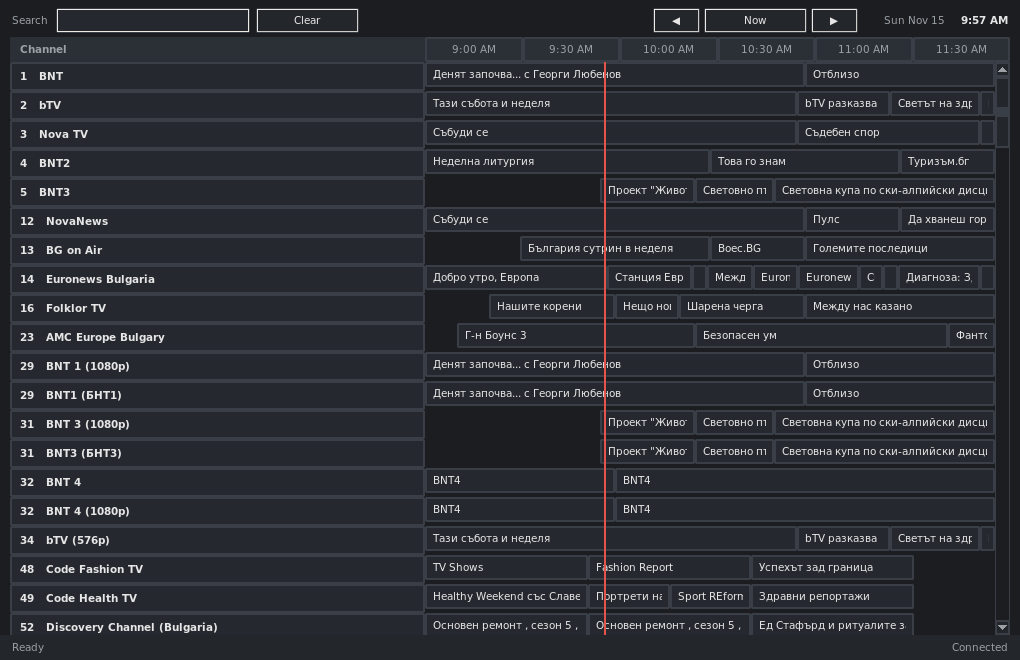
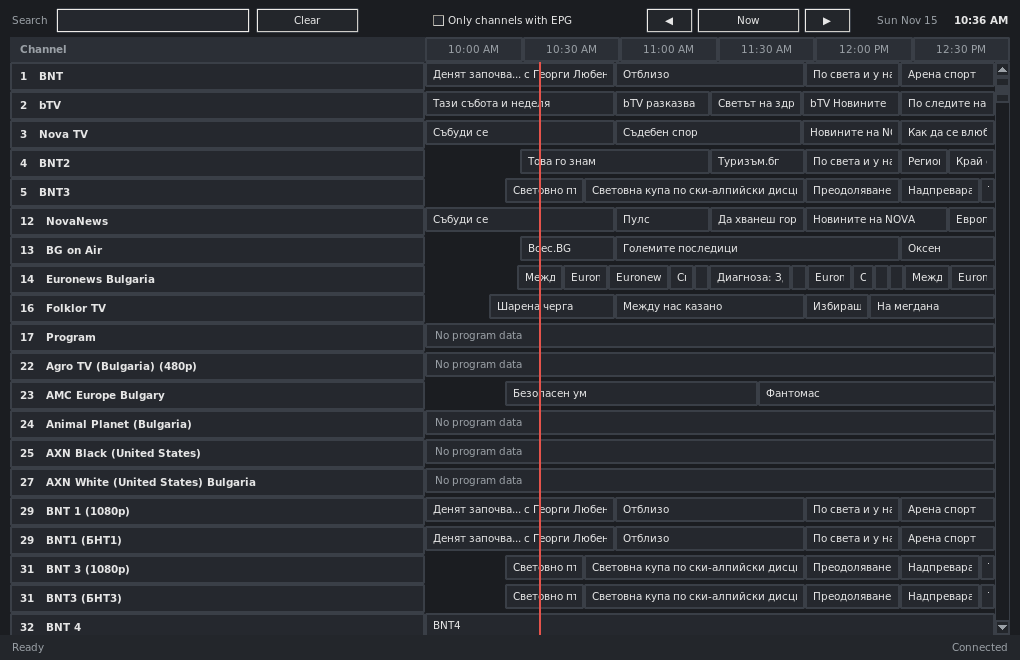
Show all channels and add an EPG-only filter
The guide previously listed only channels that had at least one EPG
event in the visible window, so channels without program data could
not be seen or played from the guide.

Fetch the full channel list and show every enabled channel by default.
Rows with no programs in the window display "No program data" and
remain playable. Add an "Only channels with EPG" checkbox in the
toolbar, unchecked by default, that hides channels with no programs in
the visible window and combines with the search filter.

Also return keyboard focus to the guide when a row is clicked, so the
arrow keys and Enter work immediately after picking a channel.

diff --git a/tvhc.py b/tvhc.py
@@ -135,11 +135,31 @@ def get_epg_data(fstart=None, fend=None):
             continue
         if fstart and e['stop'] < fstart:
             continue
-        if fend and e.get('start', 0) > fend:
+        if fend and e['start'] > fend:
             break
         channels[key].append(e)
 
     return dict(sorted(channels.items(), key=channel_sort_key))
+
+
+# fetch the full channel list, including channels with no EPG data
+def get_channels():
+    response = requests_get(f'{TVHE_Server}/api/channel/grid?start=0&limit=99999')
+    try:
+        data = response.json()
+    except ValueError as err:
+        raise TVHCError(f'invalid channel response: {err}') from err
+
+    channels = {}
+    for channel in data.get('entries', []):
+        try:
+            key = str(channel['number']), channel['name']
+        except KeyError:
+            continue
+        if not channel.get('enabled', True):
+            continue
+        channels[key] = channel.get('uuid')
+    return channels
 
 
 # ---------------------------------------------------------------- theme ---
@@ -161,7 +181,7 @@ ERROR = "#ff7b72"
 root = tk.Tk()
 root.title("TVHC — TVHeadend Client")
 root.geometry("1020x660")
-root.minsize(800, 420)
+root.minsize(900, 420)
 root.configure(background=BG)
 
 style = ttk.Style(root)
@@ -187,6 +207,13 @@ style.map("TButton",
 style.configure("TEntry", fieldbackground=CELL, foreground=FG,
                 insertcolor=FG, bordercolor=BORDER, padding=4)
 style.map("TEntry", bordercolor=[("focus", ACCENT)])
+style.configure("TCheckbutton", background=BG, foreground=FG,
+                indicatorbackground=CELL, indicatorforeground=ACCENT,
+                focuscolor=ACCENT)
+style.map("TCheckbutton",
+          background=[("active", BG)],
+          indicatorbackground=[("selected", ACCENT), ("active", CELL_HOVER)],
+          indicatorforeground=[("selected", ON_ACCENT)])
 style.configure("Vertical.TScrollbar", background=PANEL, troughcolor=BG,
                 bordercolor=BORDER, arrowcolor=MUTED,
                 darkcolor=BORDER, lightcolor=BORDER)
@@ -209,6 +236,8 @@ style.configure("Prog.TLabel", background=CELL, foreground=FG,
                 padding=(6, 4), bordercolor=BORDER)
 style.configure("ProgHover.TLabel", background=CELL_HOVER, foreground=FG,
                 padding=(6, 4), bordercolor=ACCENT)
+style.configure("Empty.TLabel", background=CELL, foreground=MUTED,
+                padding=(8, 4), bordercolor=BORDER)
 style.configure("Status.TLabel", background=PANEL, foreground=MUTED,
                 padding=(10, 4))
 style.configure("Panel.TFrame", background=PANEL)
@@ -229,21 +258,32 @@ status_right.pack(side="right")
 
 toolbar = ttk.Frame(root, padding=(10, 8, 10, 4))
 toolbar.pack(side="top", fill="x")
+toolbar.columnconfigure(0, weight=0)
+toolbar.columnconfigure(1, weight=1)
+toolbar.columnconfigure(2, weight=0)
 
 search_box = ttk.Frame(toolbar)
-search_box.pack(side="left")
+search_box.grid(row=0, column=0, sticky="w")
 ttk.Label(search_box, text="Search", style="Muted.TLabel").pack(side="left", padx=(0, 6))
 search_var = tk.StringVar()
 search_entry = ttk.Entry(search_box, textvariable=search_var, width=26)
 search_entry.pack(side="left")
 ttk.Button(search_box, text="Clear", command=lambda: search_var.set()).pack(side="left", padx=(6, 0))
 
-clock_label = ttk.Label(toolbar, text="", style="Bold.TLabel")
+epg_only_var = tk.BooleanVar(value=False)
+epg_only_check = ttk.Checkbutton(toolbar, text="Only channels with EPG",
+                                 variable=epg_only_var)
+epg_only_check.grid(row=0, column=1)
+
+right_box = ttk.Frame(toolbar)
+right_box.grid(row=0, column=2, sticky="e")
+
+clock_label = ttk.Label(right_box, text="", style="Bold.TLabel")
 clock_label.pack(side="right", padx=(12, 0))
-date_label = ttk.Label(toolbar, text="", style="Muted.TLabel")
+date_label = ttk.Label(right_box, text="", style="Muted.TLabel")
 date_label.pack(side="right", padx=(12, 0))
 
-nav_box = ttk.Frame(toolbar)
+nav_box = ttk.Frame(right_box)
 nav_box.pack(side="right", padx=(0, 12))
 prev_button = ttk.Button(nav_box, text="◀", width=3)
 prev_button.pack(side="left")
@@ -307,6 +347,7 @@ playing_key = None     # channel key currently playing
 player_process = None  # subprocess of the running mpv
 popup = None           # program details Toplevel
 server_ok = False      # last EPG request succeeded
+all_channels = None    # full channel list, fetched once
 
 
 # ------------------------------------------------------------- helpers ---
@@ -350,17 +391,20 @@ def rebuild_rows(keys):
 
         progs = ttk.Frame(scroll_frame)
         gridrows[key] = SimpleNamespace(chan=chan, progs=progs, number=number,
-                                        name=name, uuid=None)
+                                        name=name, uuid=None, has_epg=False)
 
 
 def apply_filter(reset_scroll=False):
     global selected_key
     query = search_var.get().strip().lower()
+    epg_only = epg_only_var.get()
     visible_keys.clear()
     index = 0
 
     for key, row in gridrows.items():
-        matches = not query or query in f"{row.number} {row.name}".lower()
+        matches = (not query or query in f"{row.number} {row.name}".lower())
+        if epg_only and not row.has_epg:
+            matches = False
         if matches:
             row.chan.grid(row=index, column=0, sticky="nsew")
             row.progs.grid(row=index, column=1, sticky="nsew")
@@ -420,7 +464,7 @@ def update_nowline():
 
 
 def update_epg_grid():
-    global server_ok
+    global server_ok, all_channels
     try:
         epg = get_epg_data(view_start, view_end)
     except TVHCError as err:
@@ -430,16 +474,31 @@ def update_epg_grid():
     server_ok = True
     show_connection("Connected")
 
-    keys = list(epg)
+    # the channel list is optional: if the request fails, fall back to
+    # showing only the channels that appear in the EPG
+    if all_channels is None:
+        try:
+            all_channels = get_channels()
+        except TVHCError:
+            all_channels = None
+
+    channel_keys = set(epg)
+    if all_channels:
+        channel_keys.update(all_channels)
+    keys = sorted(channel_keys, key=lambda key: channel_sort_key((key, None)))
+
     if set(keys) != set(gridrows):
         rebuild_rows(keys)
 
-    for key, events in epg.items():
+    for key in keys:
         row = gridrows.get(key)
         if row is None:
             continue
+        events = epg.get(key, [])
+        row.has_epg = bool(events)
+        row.uuid = all_channels.get(key) if all_channels else None
         if events and events[0].get('channelUuid'):
-            row.uuid = events[0]['channelUuid']
+            row.uuid = events[0]['channelUuid'] or row.uuid
 
         for child in row.progs.winfo_children():
             child.destroy()
@@ -447,6 +506,16 @@ def update_epg_grid():
         col = 0
         group = f'progs-{key}'
         pos = view_start
+
+        if not events:
+            empty = ttk.Label(row.progs, text="No program data",
+                              borderwidth=1, relief="solid",
+                              style="Empty.TLabel", cursor="hand2")
+            empty.metadata = SimpleNamespace(key=key)
+            empty.bind("<Button-1>", play_stop)
+            empty.grid(row=0, column=0, sticky="nsew")
+            row.progs.columnconfigure(0, weight=1, uniform=group)
+            continue
 
         for event in events:
             title = clean_text(event.get('title'), '(no title)')
@@ -621,6 +690,9 @@ def play_stop(event):
     global selected_key
     selected_key = metadata.key
     refresh_row_styles()
+    # take keyboard focus back from the search box so the arrow keys and
+    # Enter act on the guide after a click
+    root.focus_set()
     title = getattr(metadata, 'title', None)
     # clicking a program of the channel that is already playing should not
     # stop playback; only the channel label acts as a play/stop toggle.
@@ -806,6 +878,7 @@ def on_close():
 
 search_var.trace_add("write", lambda *args: apply_filter(reset_scroll=True))
 search_entry.bind("<Escape>", on_key_escape)
+epg_only_check.configure(command=lambda: apply_filter(reset_scroll=True))
 
 prev_button.configure(command=lambda: page_view(-SLOT_SECONDS))
 next_button.configure(command=lambda: page_view(SLOT_SECONDS))

diff --git a/Readme.md b/Readme.md
@@ -92,6 +92,7 @@ python3 tvhc.py http://192.168.1.45:9981/
 | Move the guide back / forward | <kbd>◀</kbd> / <kbd>▶</kbd> buttons or <kbd>←</kbd> / <kbd>→</kbd> (30 minutes at a time) |
 | Return to the current time | **Now** button |
 | Filter channels | Type a channel number or name in **Search** |
+| Show only channels with program data | Tick **Only channels with EPG** |
 | Clear the filter | <kbd>Esc</kbd> or **Clear** |
 | Close program details | **Close** or <kbd>Esc</kbd> |
 
@@ -112,6 +113,11 @@ The playing channel is highlighted and the status bar shows what is playing;
 The grid shows the next three hours of programming for every channel, in
 half-hour slots starting half an hour before the current time. Clicking any
 program in a row plays that channel live — it does not play a recording.
+
+By default every channel on the server is listed, including channels that
+have no EPG data. Those rows show **No program data** and can still be played
+by clicking them. Tick **Only channels with EPG** to hide channels that have
+no programs in the visible time window.
 
 While you are on the current time window the guide advances automatically. If
 you move it with <kbd>◀</kbd> / <kbd>▶</kbd>, it stays where you put it until
